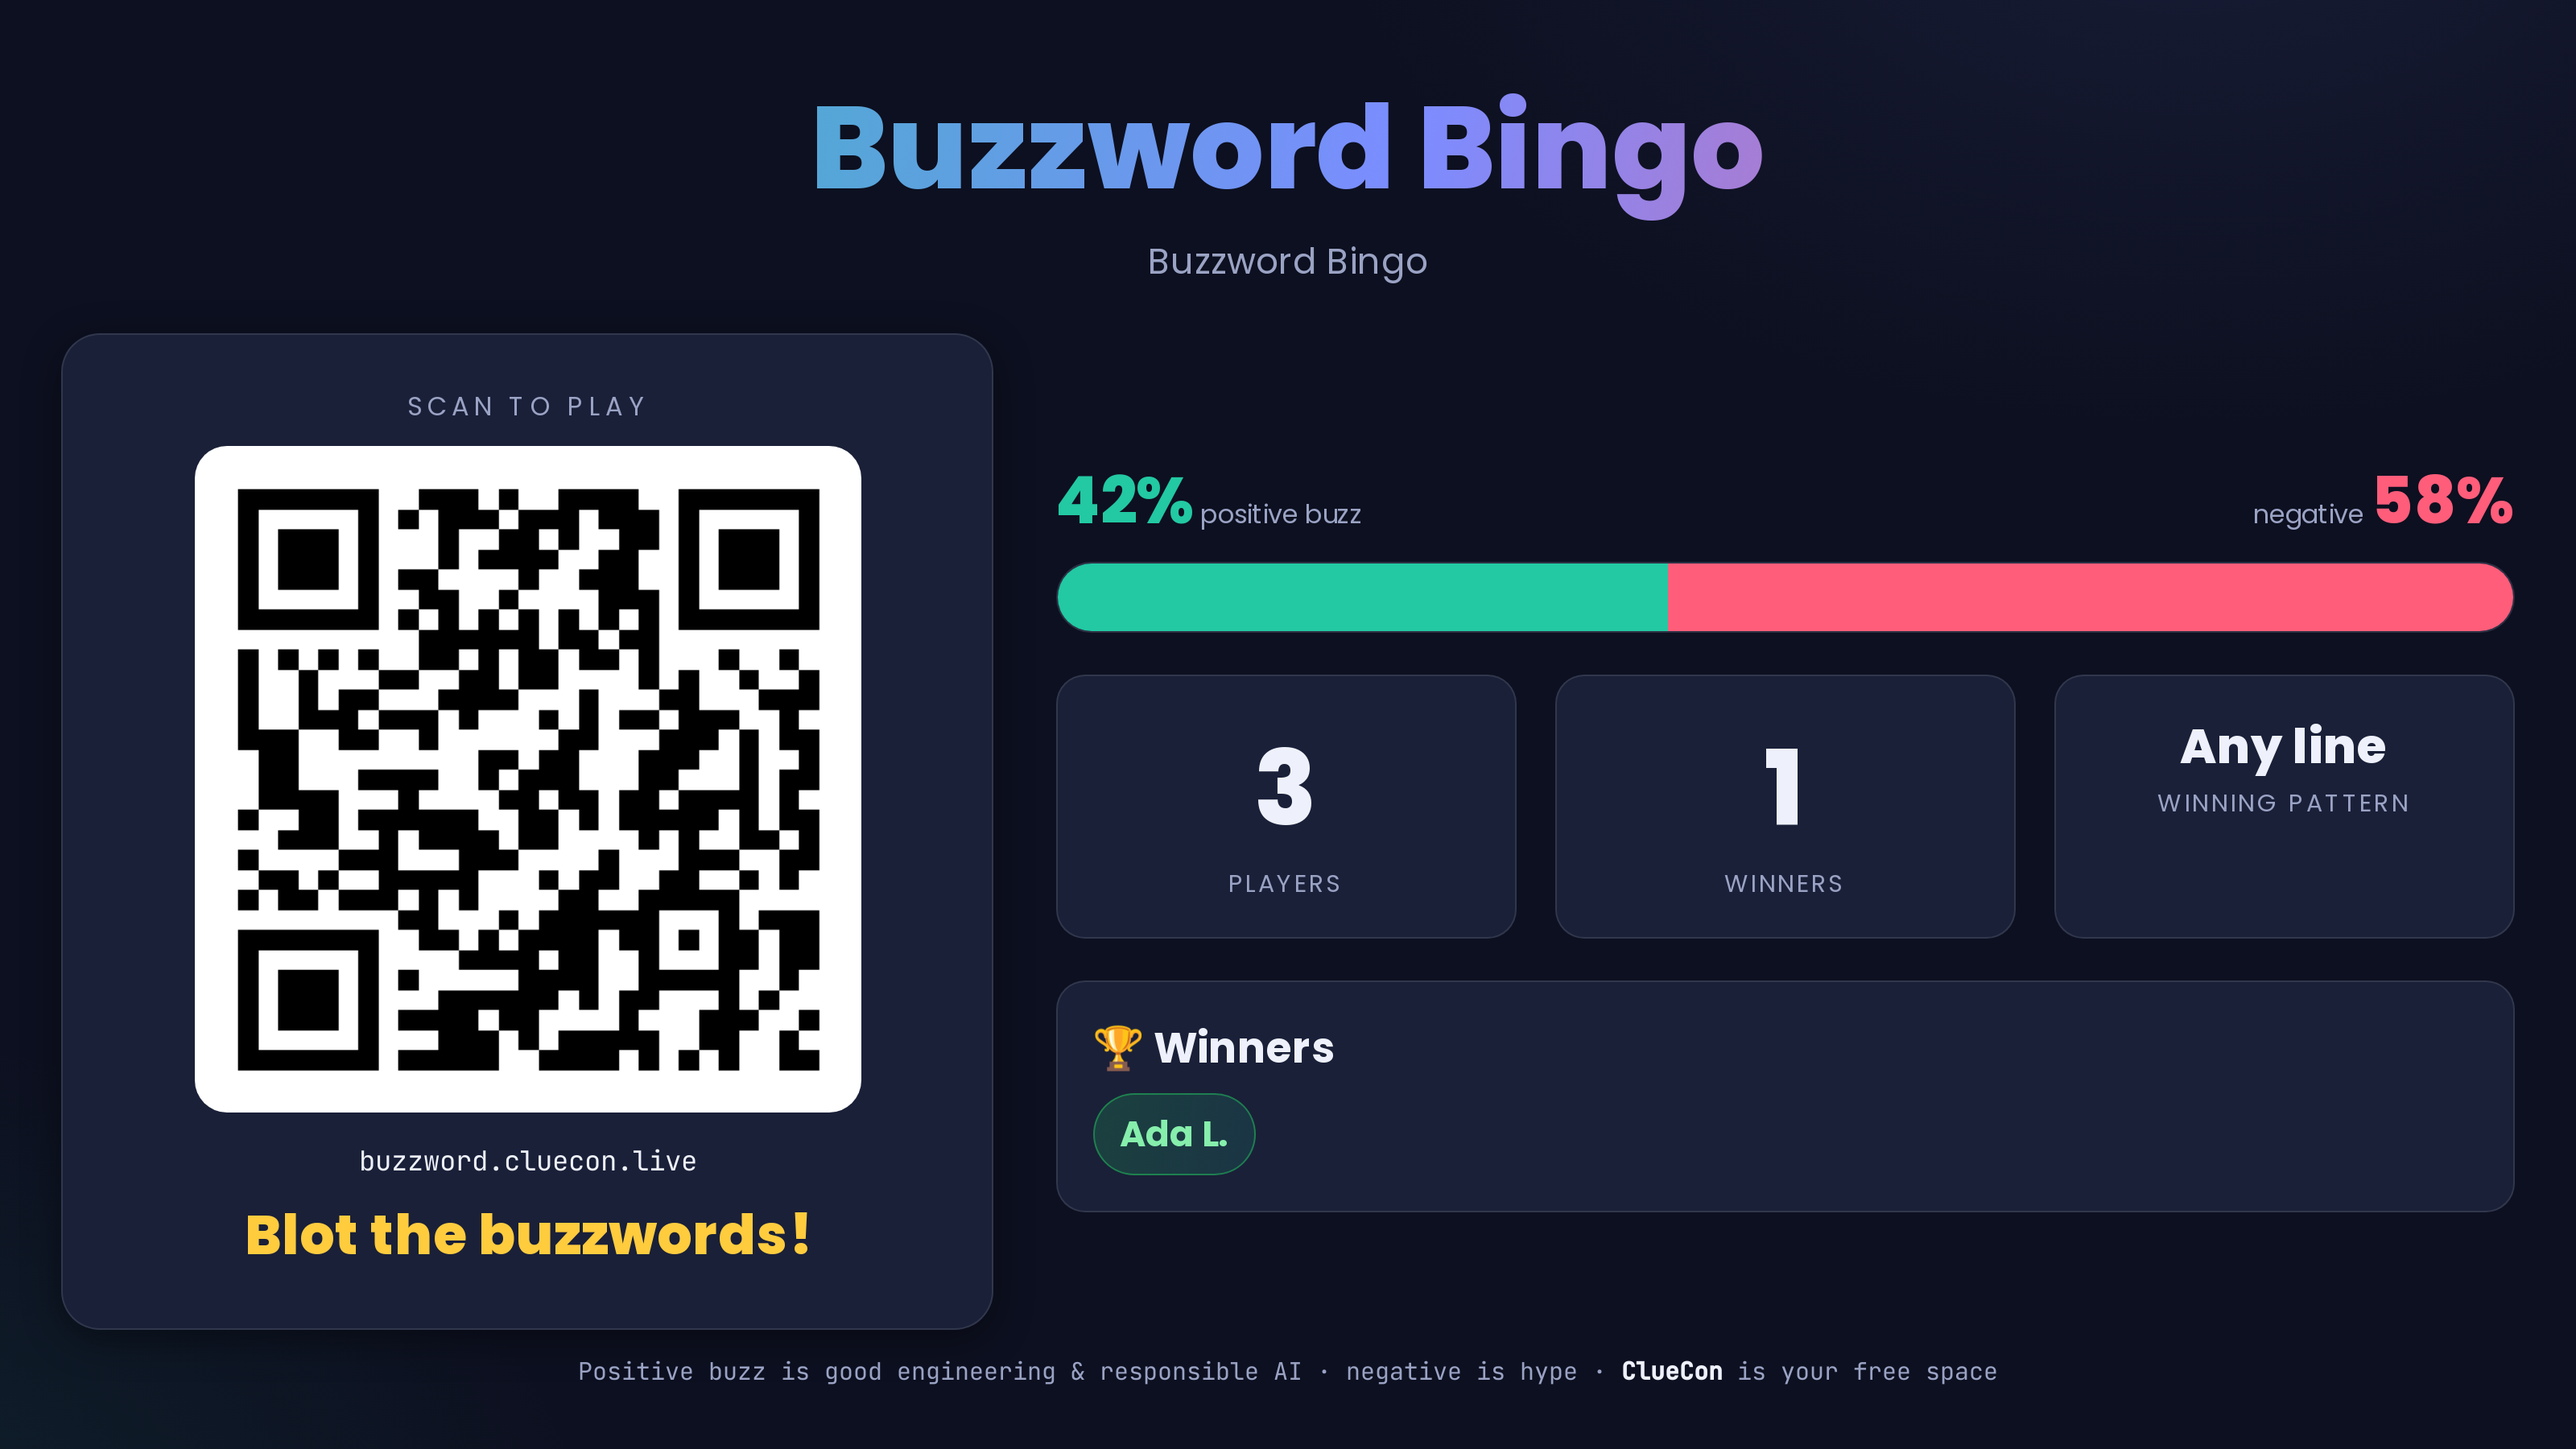
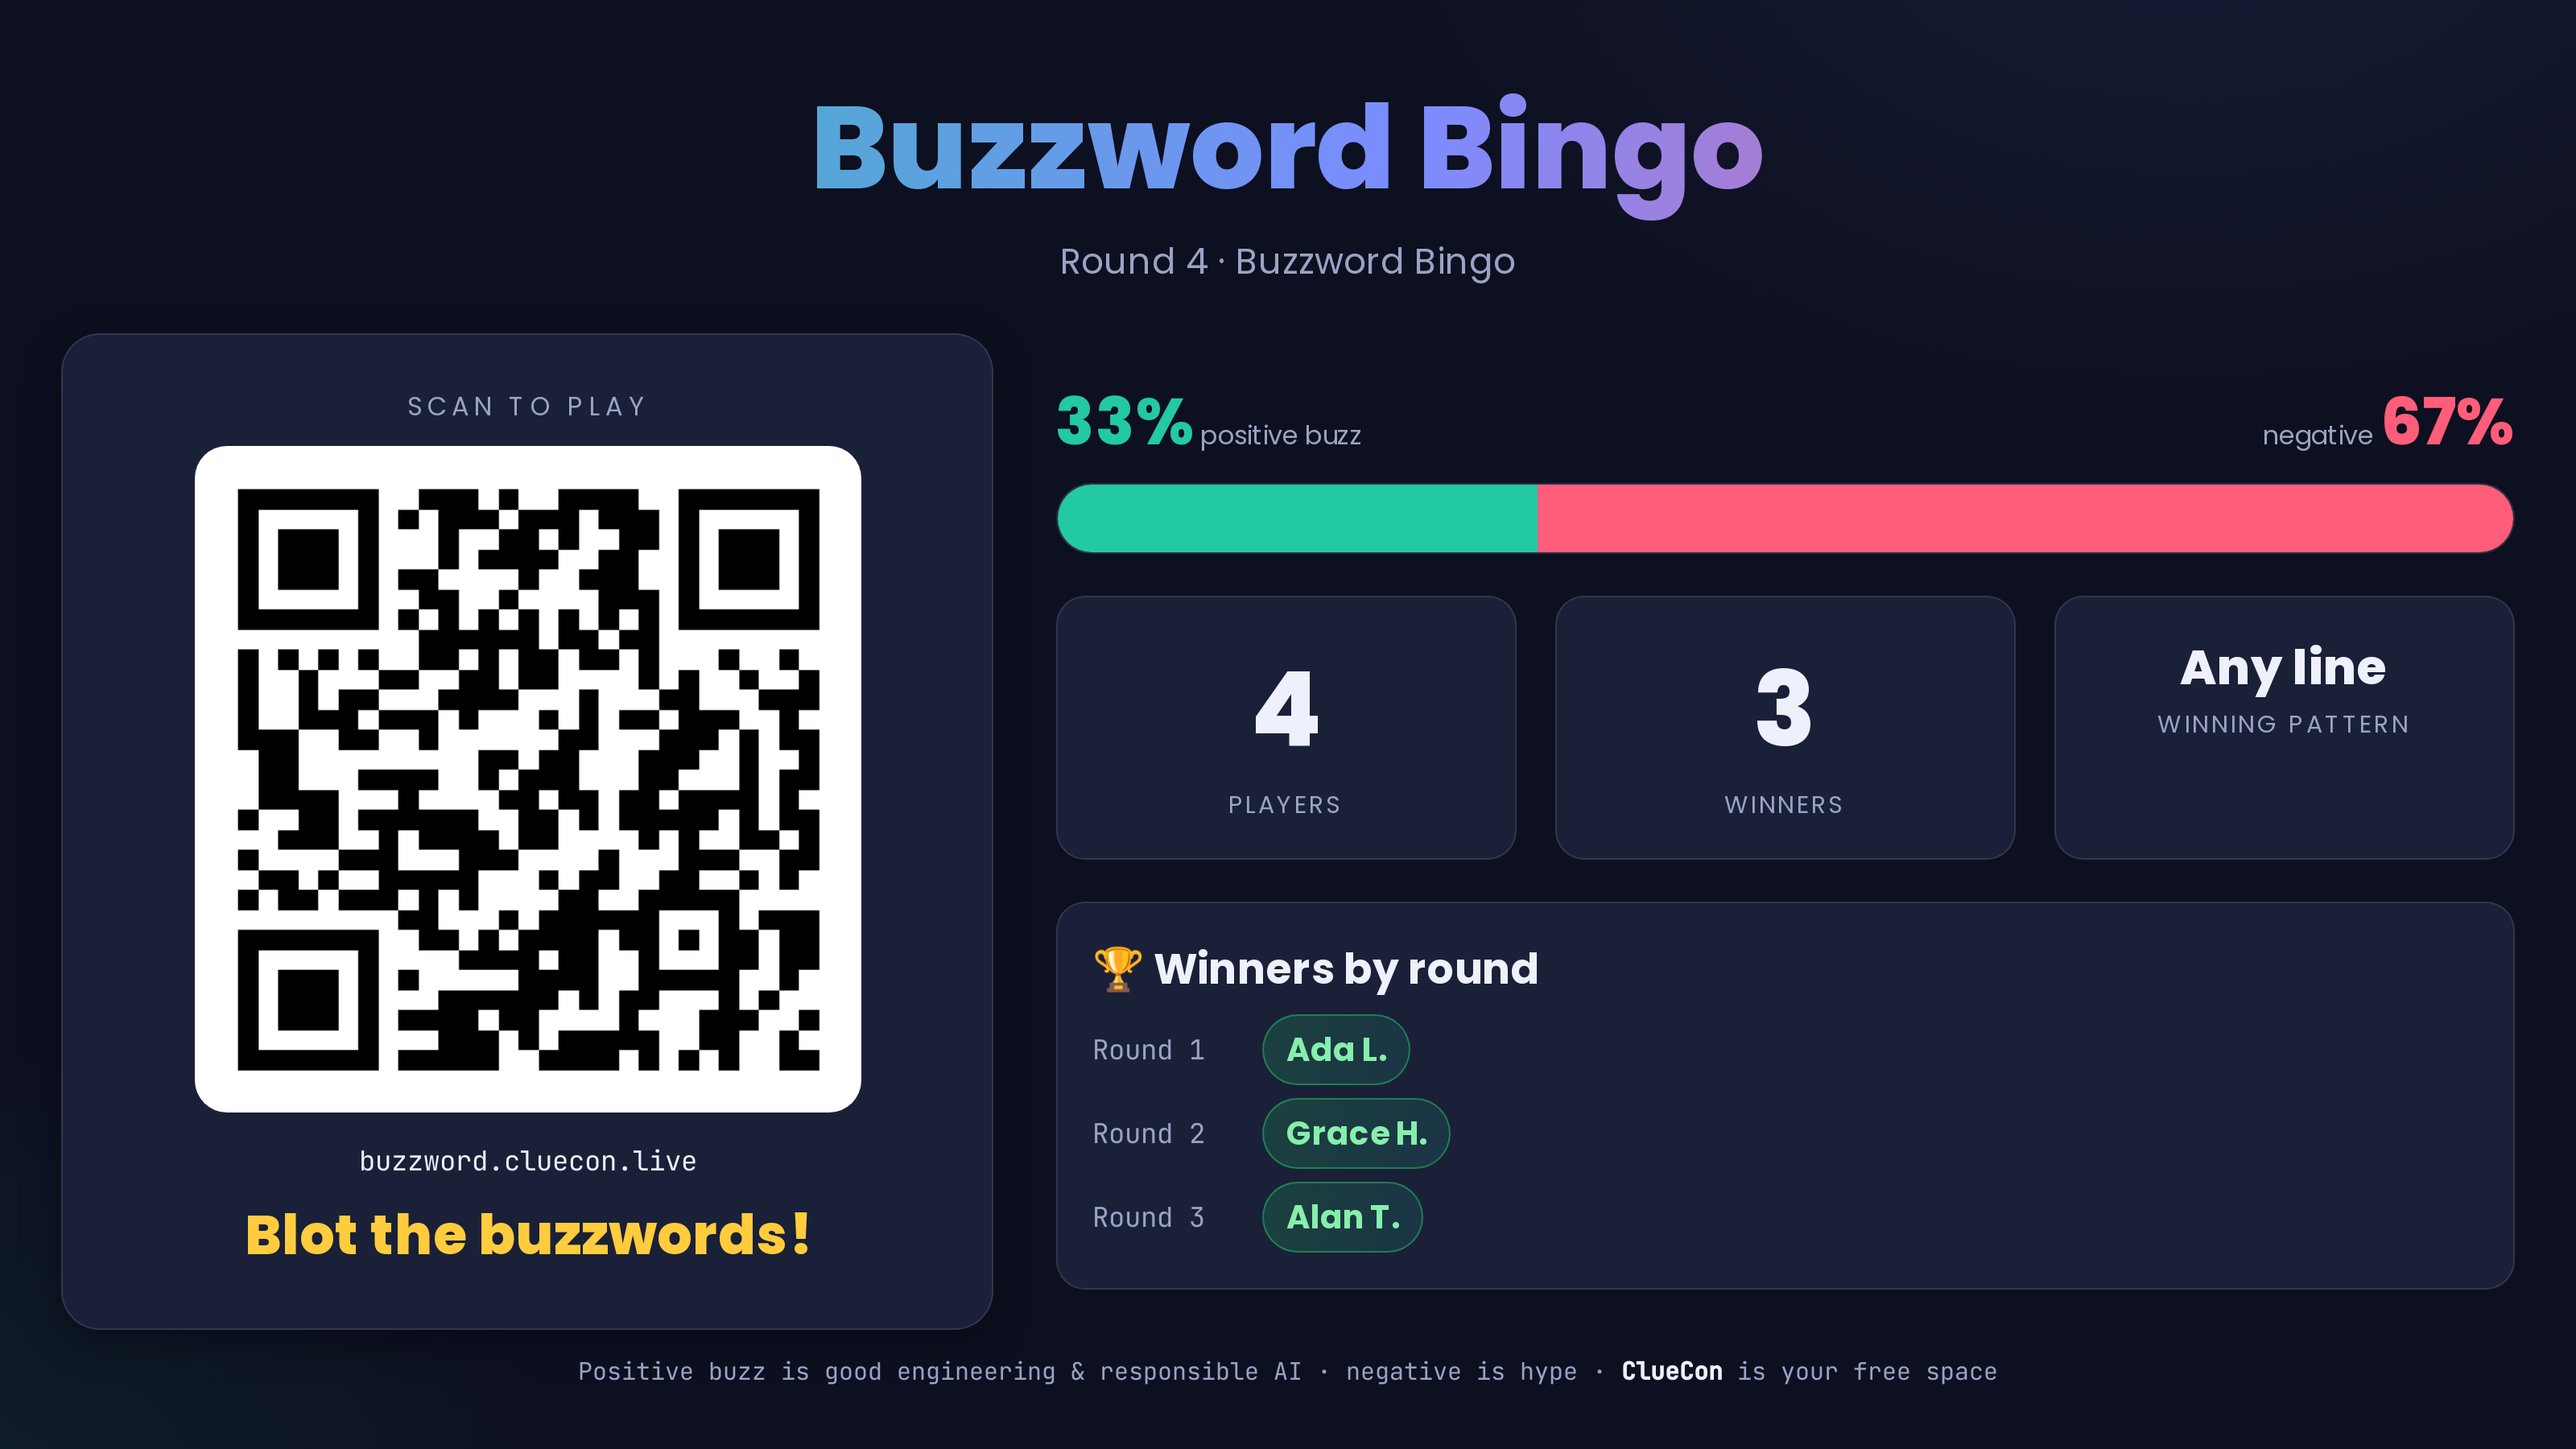
Stage: show winners by round (persistent history)
New winners_log table records every approved winner with its round + time and
survives newRound(). publicState exposes the history; the Stage lists winners
grouped by round, and the total-winners metric counts the whole event.

diff --git a/public/stage.js b/public/stage.js
@@ -26,19 +26,33 @@
     $('bn').style.width = b.negativePct + '%';
     // metrics
     $('m-players').textContent = s.players || 0;
-    var wins = s.winners || [];
-    $('m-winners').textContent = wins.length;
+    var hist = s.history || [];
+    $('m-winners').textContent = hist.length;   // total across the whole event
     $('m-pattern').textContent = PATTERN_LABEL[s.activePattern] || s.activePattern || '—';
-    // winners
+    // winners by round (persists across rounds)
     var host = $('winlist'); host.innerHTML = '';
-    if (!wins.length) { var n = document.createElement('span'); n.className = 'none'; n.textContent = 'First bingo puts a name up here…'; host.appendChild(n); }
-    else wins.forEach(function (w) { var el = document.createElement('span'); el.className = 'w'; el.textContent = w.name; host.appendChild(el); });
+    if (!hist.length) {
+      var n = document.createElement('span'); n.className = 'none'; n.textContent = 'First bingo puts a name up here…'; host.appendChild(n);
+    } else {
+      var byRound = {};
+      hist.forEach(function (w) { (byRound[w.round] = byRound[w.round] || []).push(w); });
+      Object.keys(byRound).map(Number).sort(function (a, b) { return a - b; }).forEach(function (rnd) {
+        var row = document.createElement('div'); row.className = 'rrow';
+        var lbl = document.createElement('span'); lbl.className = 'rlbl'; lbl.textContent = 'Round ' + rnd; row.appendChild(lbl);
+        byRound[rnd].forEach(function (w) {
+          var chip = document.createElement('span'); chip.className = 'w'; chip.textContent = w.name;
+          if (w.wonAt) chip.title = 'won at ' + new Date(w.wonAt).toLocaleTimeString();
+          row.appendChild(chip);
+        });
+        host.appendChild(row);
+      });
+    }
     // celebrate a brand-new winner (skip on first paint)
-    if (booted && wins.length > lastWinnerCount) {
-      var latest = wins[wins.length - 1];
+    if (booted && hist.length > lastWinnerCount) {
+      var latest = hist[hist.length - 1];
       celebrate(latest ? latest.name : '');
     }
-    lastWinnerCount = wins.length;
+    lastWinnerCount = hist.length;
     booted = true;
   }
 

diff --git a/public/stage.html b/public/stage.html
@@ -33,9 +33,11 @@
   .metric .k { color:var(--muted); text-transform:uppercase; letter-spacing:.12em; font-size:clamp(11px,1.1vw,15px); }
   .winners { background:var(--panel); border:1px solid var(--line); border-radius:18px; padding:clamp(12px,1.6vw,22px); min-height:0; overflow:hidden; }
   .winners h2 { margin:0 0 8px; font-size:clamp(16px,1.8vw,26px); }
-  .winners .list { display:flex; flex-wrap:wrap; gap:10px; }
+  .winners #winlist { display:flex; flex-direction:column; gap:8px; max-height:34vh; overflow:auto; }
+  .winners .rrow { display:flex; align-items:center; gap:12px; flex-wrap:wrap; }
+  .winners .rlbl { color:var(--muted); font-family:var(--mono); font-size:clamp(12px,1.2vw,17px); min-width:5.5em; }
   .winners .w { background:linear-gradient(100deg,rgba(34,197,94,.2),rgba(34,201,163,.12)); border:1px solid rgba(34,197,94,.5);
-    color:#86efac; border-radius:999px; padding:8px 16px; font-weight:700; font-size:clamp(14px,1.5vw,22px); }
+    color:#86efac; border-radius:999px; padding:6px 14px; font-weight:700; font-size:clamp(13px,1.4vw,20px); }
   .winners .none { color:var(--muted); }
   .st-foot { text-align:center; color:var(--muted); font-family:var(--mono); font-size:clamp(11px,1.1vw,15px); }
   .st-foot b { color:var(--txt); }
@@ -75,8 +77,8 @@
           <div class="metric"><div class="n" id="m-pattern" style="font-size:clamp(16px,2vw,30px)">Any line</div><div class="k">Winning pattern</div></div>
         </div>
         <div class="winners">
-          <h2>🏆 Winners</h2>
-          <div class="list" id="winlist"><span class="none">First bingo puts a name up here…</span></div>
+          <h2>🏆 Winners by round</h2>
+          <div id="winlist"><span class="none">First bingo puts a name up here…</span></div>
         </div>
       </div>
     </div>

diff --git a/db.js b/db.js
@@ -60,6 +60,13 @@ function init(dir) {
       added_at INTEGER NOT NULL,
       UNIQUE(word, category)
     );
+    -- Permanent winners history across rounds (NOT cleared by newRound).
+    CREATE TABLE IF NOT EXISTS winners_log (
+      id     INTEGER PRIMARY KEY AUTOINCREMENT,
+      round  INTEGER NOT NULL,
+      name   TEXT NOT NULL,
+      won_at INTEGER NOT NULL
+    );
   `);
   // Migrations: a "round" ties a card to the current speaker/game.
   ensureColumn('cards', 'round', 'INTEGER NOT NULL DEFAULT 1');
@@ -198,6 +205,13 @@ function winners() {
                      JOIN players p ON p.uuid=g.uuid WHERE g.won_at IS NOT NULL
                      ORDER BY g.won_at`).all();
 }
+// Permanent, cross-round winners history.
+function logWinner(round, name, wonAt) {
+  db.prepare('INSERT INTO winners_log (round, name, won_at) VALUES (?,?,?)').run(round, name, wonAt);
+}
+function winnersLog() {
+  return db.prepare('SELECT round, name, won_at FROM winners_log ORDER BY round, won_at').all();
+}
 
 module.exports = {
   init, upsertPlayer, getPlayer, playerCount,
@@ -206,4 +220,5 @@ module.exports = {
   getMeta, setMeta, roomSentiment, winners,
   currentRound, newRound,
   addBuzzword, listBuzzwords, removeBuzzword,
+  logWinner, winnersLog,
 };

diff --git a/server.js b/server.js
@@ -261,6 +261,7 @@ app.post('/api/operator/review', requireOperator, (req, res) => {
     db.setWon(claim.uuid, wonAt);
     const player = db.getPlayer(claim.uuid);
     const name = player ? player.name : 'A player';
+    db.logWinner(db.currentRound(), name, wonAt);   // permanent cross-round history
     io.to('player:' + claim.uuid).emit('result', { approved: true, pattern: claim.pattern, wonAt: wonAt });
     // The round is now over for this speaker — tell everyone and lock their boards.
     io.emit('roundover', { winner: name, at: wonAt, pattern: claim.pattern });
@@ -342,6 +343,7 @@ function publicState() {
     roundClosed: !roundOpen(),
     sentiment: db.roomSentiment(),
     winners: db.winners().map((w) => ({ name: w.name, wonAt: w.won_at })),
+    history: db.winnersLog().map((w) => ({ round: w.round, name: w.name, wonAt: w.won_at })),
     publicUrl,
     qr: qrDataUrl,
   };
